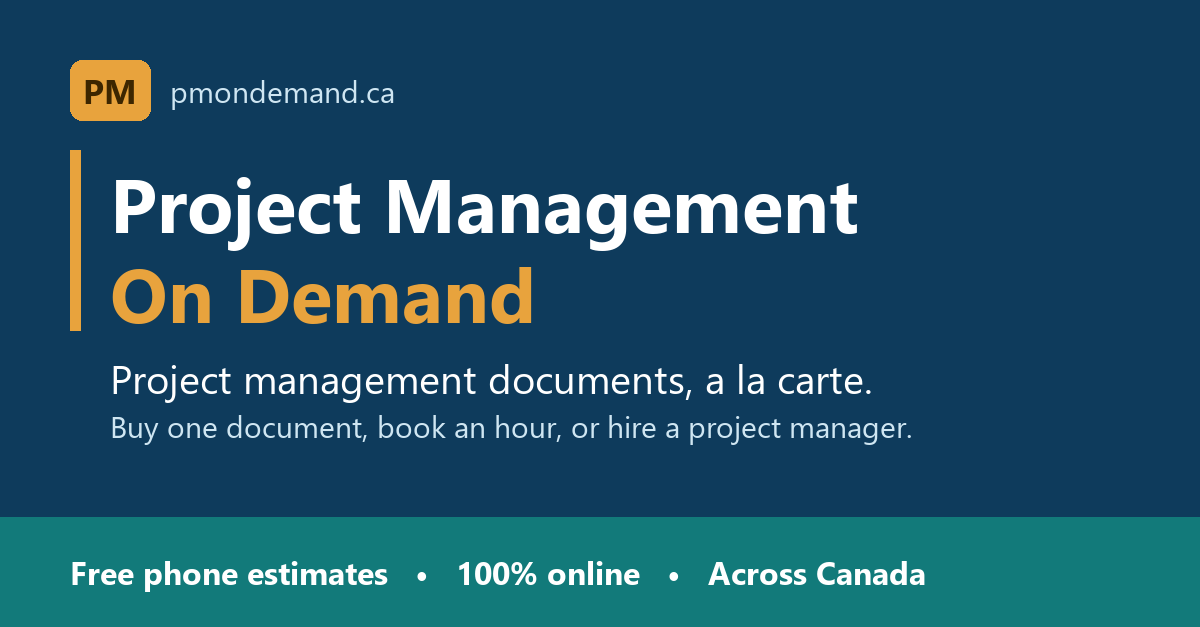
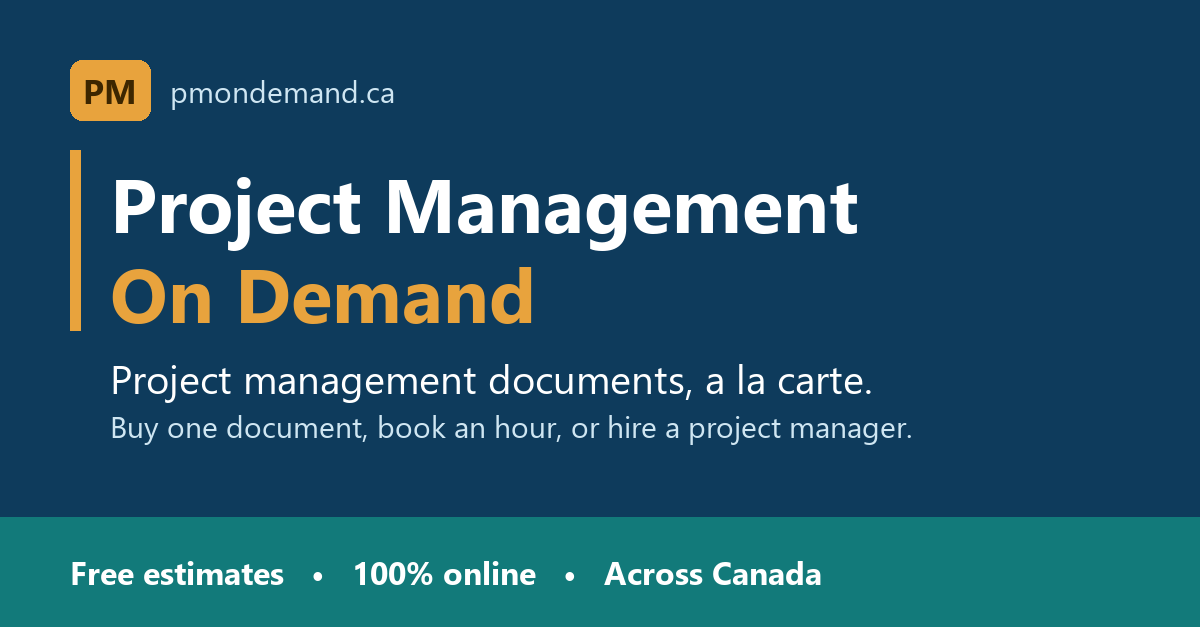
Free estimates online by default, phone as an option

Changed region(s): [[0.1233, 0.8788, 0.7708, 0.9394]]

diff --git a/index.html b/index.html
@@ -10,7 +10,7 @@
 <meta property="og:type" content="website">
 <meta property="og:site_name" content="Project Management On Demand">
 <meta property="og:title" content="Project Management On Demand: Project management documents, a la carte">
-<meta property="og:description" content="Buy one project document, book an hour, or hire a project manager. Senior project management for IT, cloud, security and infrastructure work. Free phone estimates. 100% online, across Canada.">
+<meta property="og:description" content="Buy one project document, book an hour, or hire a project manager. Senior project management for IT, cloud, security and infrastructure work. Free estimates, online or by phone. 100% online, across Canada.">
 <meta property="og:url" content="https://pmondemand.ca/">
 <meta property="og:image" content="https://pmondemand.ca/share.png">
 <meta property="og:image:width" content="1200">
@@ -182,10 +182,10 @@ footer .wrap{display:flex;justify-content:space-between;gap:12px;flex-wrap:wrap}
     <p class="lead">Buy a single project document, book an hour, become a member, or hire a project manager to run your project. Senior project management for IT, cloud, security and infrastructure work, sold one piece at a time, all done online.</p>
     <div class="cta">
       <a class="btn primary" href="#services">Choose your services</a>
-      <a class="btn ghost" href="#request">Get a free phone estimate</a>
+      <a class="btn ghost" href="#request">Get a free estimate</a>
     </div>
     <div class="promise">
-      <span><svg width="18" height="18" viewBox="0 0 24 24" fill="none" stroke="currentColor" stroke-width="2"><path d="M22 16.9v3a2 2 0 0 1-2.2 2 19.8 19.8 0 0 1-8.6-3.1 19.5 19.5 0 0 1-6-6A19.8 19.8 0 0 1 2.1 4.2 2 2 0 0 1 4.1 2h3a2 2 0 0 1 2 1.7c.1.9.4 1.8.7 2.7a2 2 0 0 1-.5 2.1L8 9.8a16 16 0 0 0 6 6l1.3-1.3a2 2 0 0 1 2.1-.5c.9.3 1.8.6 2.7.7a2 2 0 0 1 1.7 2z"/></svg>Free phone estimates</span>
+      <span><svg width="18" height="18" viewBox="0 0 24 24" fill="none" stroke="currentColor" stroke-width="2"><path d="M20.6 13.4l-7.2 7.2a2 2 0 0 1-2.8 0L2 12V2h10l8.6 8.6a2 2 0 0 1 0 2.8z"/><circle cx="7" cy="7" r="1.5"/></svg>Free estimates, online or by phone</span>
       <span><svg width="18" height="18" viewBox="0 0 24 24" fill="none" stroke="currentColor" stroke-width="2"><rect x="2" y="4" width="20" height="13" rx="2"/><path d="M8 21h8M12 17v4"/></svg>100% online, nothing in person</span>
       <span><svg width="18" height="18" viewBox="0 0 24 24" fill="none" stroke="currentColor" stroke-width="2"><path d="M14 2H6a2 2 0 0 0-2 2v16a2 2 0 0 0 2 2h12a2 2 0 0 0 2-2V8z"/><path d="M14 2v6h6M9 15l2 2 4-4"/></svg>You provide your key information in writing or by recorded online meeting</span>
     </div>
@@ -351,7 +351,7 @@ footer .wrap{display:flex;justify-content:space-between;gap:12px;flex-wrap:wrap}
 <section id="request">
   <div class="wrap">
     <h2>Send your request</h2>
-    <p class="sub">Tell us a little about your project. We'll call you for a <b>free phone estimate</b>, or reply by email within one business day, to confirm the scope, timing and final price. Nothing is charged until you agree.</p>
+    <p class="sub">Tell us a little about your project. We'll give you a <b>free estimate</b> online, by email or video call, or by phone if you prefer, within one business day, to confirm the scope, timing and final price. Nothing is charged until you agree.</p>
     <form class="req" id="reqForm" novalidate>
       <label>Your name<input name="name" required autocomplete="name"></label>
       <label>Email<input name="email" type="email" required autocomplete="email"></label>
@@ -361,7 +361,7 @@ footer .wrap{display:flex;justify-content:space-between;gap:12px;flex-wrap:wrap}
         <select name="when"><option>As soon as possible</option><option>Within 2 weeks</option><option>Within a month</option><option>Just exploring</option></select>
       </label>
       <label>First step
-        <select name="meet"><option>Free phone estimate</option><option>Online video call</option><option>Email is fine</option></select>
+        <select name="meet"><option>Free estimate by email</option><option>Free estimate by online video call</option><option>Free estimate by phone</option></select>
       </label>
       <label>How would you like to be billed?
         <select name="billing"><option>Fixed price per item (as selected)</option><option>Time and materials</option><option>Custom statement of work</option><option>Not sure yet, advise me</option></select>
@@ -380,14 +380,14 @@ footer .wrap{display:flex;justify-content:space-between;gap:12px;flex-wrap:wrap}
     <h2>Questions</h2>
     <details><summary>How does a fixed-price document work?</summary><p>You tell us about your project, we confirm what's in scope, then we write the document with you and revise it once. Larger or unusual scopes get a quote first.</p></details>
     <details><summary>How are document sizes priced?</summary><p>Small is under 5 pages, Medium is 5 to 20 pages, and Large is over 20 pages. Medium is twice the Small price. Large starts at three and a half times the Small price and is confirmed by quote, because very large documents vary the most.</p></details>
-    <details><summary>Can we work on time and materials, or a custom statement of work?</summary><p>Yes. On time and materials, you pay for the hours and materials actually used, at the rates on this page, with regular reports so there are no surprises. For a larger or unusual project, we write a custom statement of work that sets out the scope, deliverables, schedule and costs tailored to exactly what you want, and you approve it before any work starts. Ask for either through the free phone estimate.</p></details>
+    <details><summary>Can we work on time and materials, or a custom statement of work?</summary><p>Yes. On time and materials, you pay for the hours and materials actually used, at the rates on this page, with regular reports so there are no surprises. For a larger or unusual project, we write a custom statement of work that sets out the scope, deliverables, schedule and costs tailored to exactly what you want, and you approve it before any work starts. Ask for either when you request your free estimate.</p></details>
     <details id="guarantee"><summary>What if I'm not happy with the work?</summary><p>Tell us, and we'll refund what you paid for that document or those hours, and we both agree to end the work there. A refund is the full and only remedy. This guarantee covers documents and hourly time bought on their own; memberships (and the member pricing they unlock) are not refundable.</p></details>
     <details><summary>How is hourly time billed?</summary><p>In half-hour steps at $95 an hour ($80.75 for members). You approve a block of hours in advance and we report the time used.</p></details>
     <details><summary>What does the membership include?</summary><p>Two hours of project management, 15% off everything, the template library and priority booking, for one year. Unused included hours don't carry over.</p></details>
     <details><summary>Can you manage my whole project?</summary><p>Yes. Under Ongoing management you can book single services (meetings with minutes, requirements sessions, sprints, monthly plan upkeep) or a monthly package where we run the project with you: meetings and minutes, timeline, status reports, risk alerts, sprints and steering updates.</p></details>
     <details><summary>Can we hire a project manager directly?</summary><p>Yes. You can hire a dedicated project manager by the month, part-time (about 40 hours a month) or full-time (about 160 hours a month, quoted), working online with your team for as long as you need.</p></details>
     <details><summary>Do you provide architecture or design?</summary><p>No. We do not provide architecture or design of any kind (building, network, system or solution). Instead, you provide the architecture or design, and we draw it for you, or make our best attempt to, in Microsoft Visio: layouts, network and system diagrams, process flows and org charts. The content is yours (or your architect's or engineer's), and you stay responsible for it.</p></details>
-    <details><summary>Is the estimate really free?</summary><p>Yes. A short phone call to understand what you need, followed by a written price. No cost and no obligation.</p></details>
+    <details><summary>Is the estimate really free?</summary><p>Yes. We review what you need online, by email or a short video call (or by phone if you prefer), then send you a written price. No cost and no obligation.</p></details>
     <details><summary>Do you work in person?</summary><p>No. All services are delivered online, by video call, phone, email and shared documents, so we can work with you anywhere in Canada and beyond.</p></details>
     <details><summary>What do I need to provide?</summary><p>The source data and key information your project depends on (facts, figures, decisions, existing documents and contacts) must be given to us in writing, by email or shared files. We build the work on what you provide, so the work starts once it arrives.</p></details>
     <details><summary>What if my information isn't written down?</summary><p>We can hold an online meeting where you and your people explain it. With everyone's permission the meeting is recorded and transcribed, and the transcript becomes the written source we work from. See "Data gathering by transcribed meeting" under Ongoing management.</p></details>
